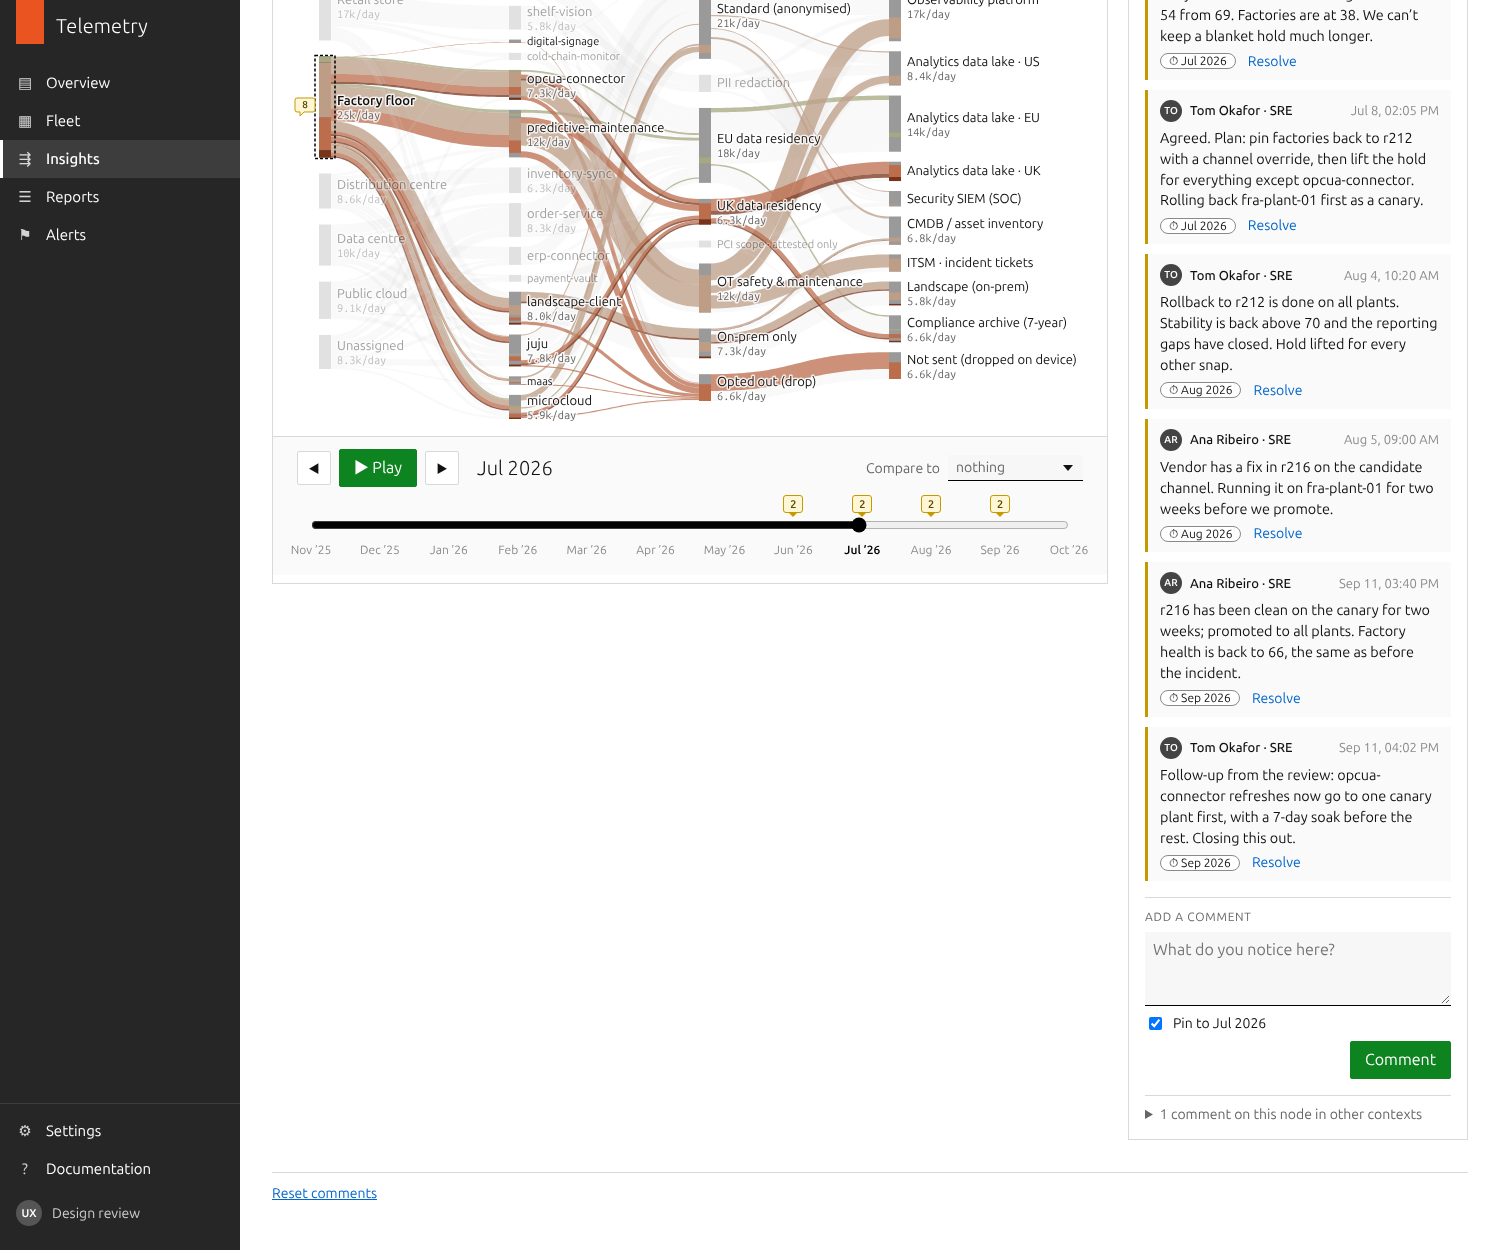
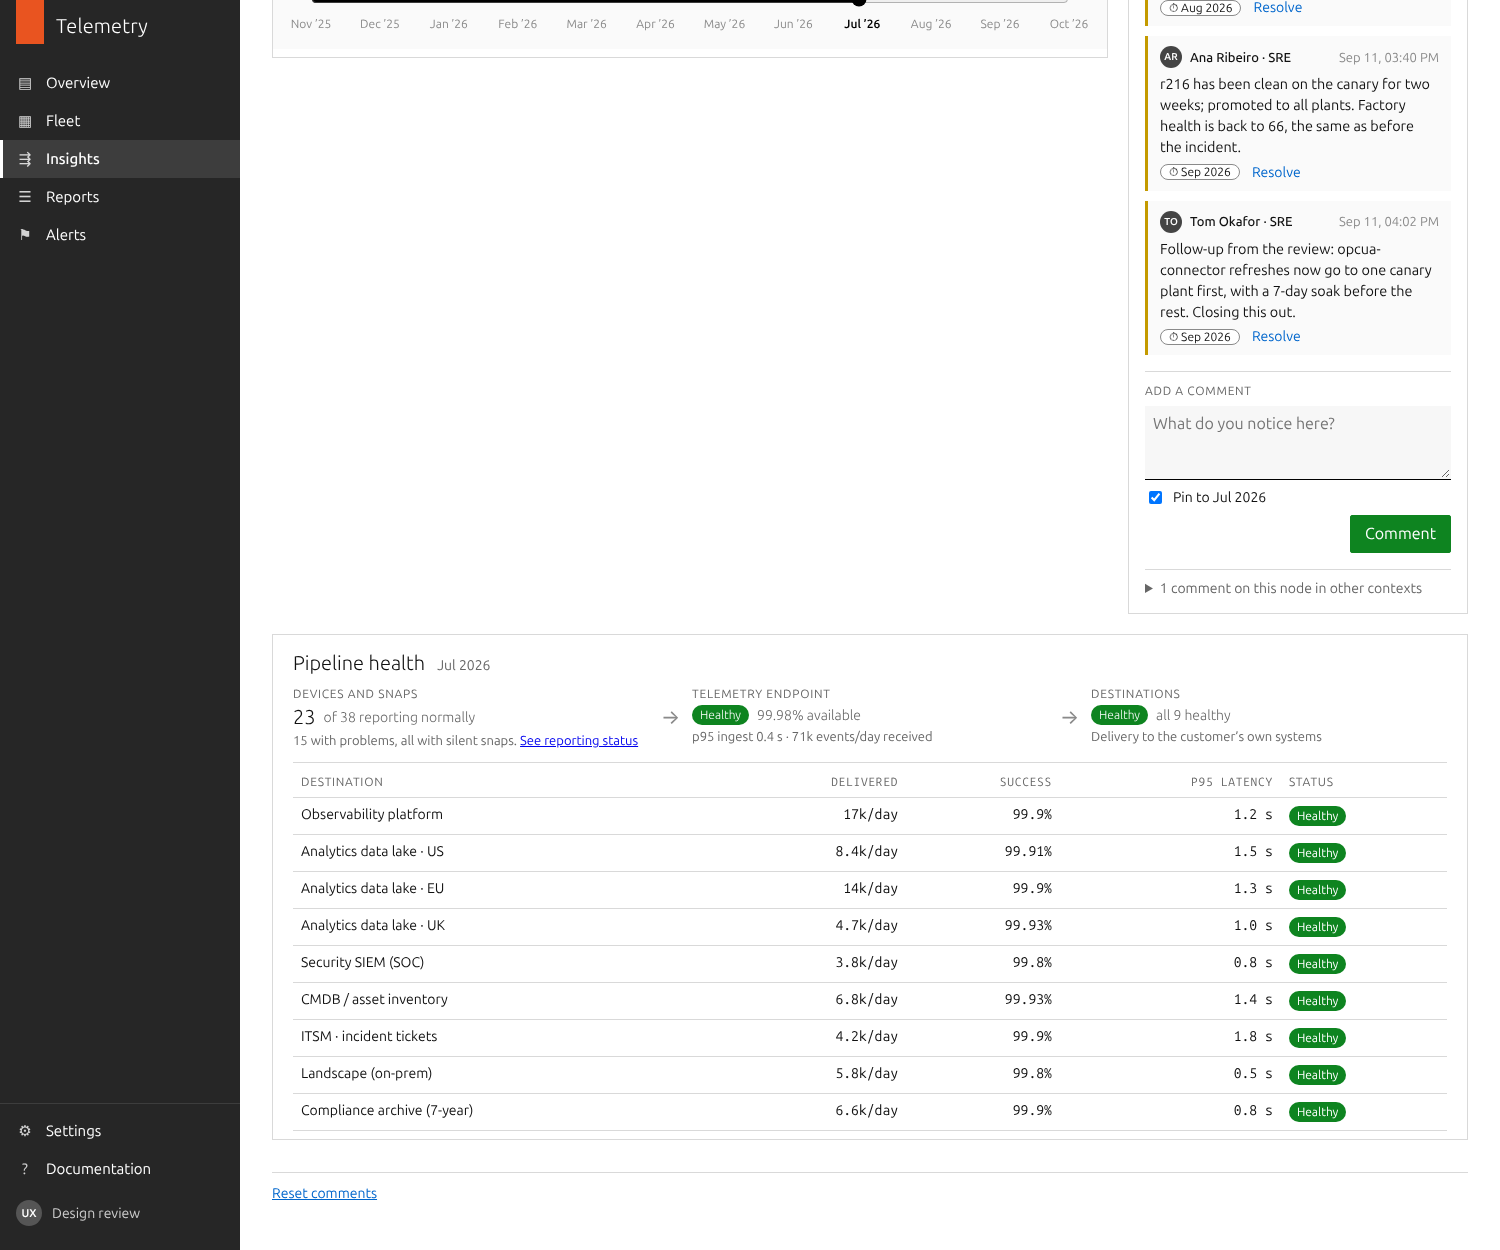
Add a pipeline health panel at the bottom of the page
Follows the pipe left to right for the timeline month: devices and snaps
reporting normally (with a link to the Reporting status view), the
telemetry endpoint (status, availability, p95 ingest, events received),
and destinations (table of delivered/day, success rate, p95 latency and
a Healthy/Degraded badge; clicking a row traces that destination). The
Security SIEM is degraded (rate-limited, retrying) in the latest month.
Figures are synthetic and seeded per month.

Claude-Session: https://claude.ai/code/session_0156BKrAD5wHGfcWHmuamSMf

diff --git a/js/app.js b/js/app.js
@@ -350,6 +350,7 @@
         '. Select a group to see its devices.</p>');
     }
     drawInsights();
+    drawPipeline();
     el.ladder.hidden = !parts.length;
     el.ladder.innerHTML = parts.join('');
   }
@@ -361,6 +362,59 @@
       return '<span class="chart-legend__col' + (i === stg.length - 1 ? ' is-last' : '') + (i === 0 ? ' is-first' : '') + '" style="left:' + (n ? n.x : 0) + 'px">' + esc(label) + '</span>';
     }).join('');
   }
+
+  // ---- Pipeline health panel (bottom of the page) ------------------------
+  // Follows the pipe left to right for the timeline month: devices and snaps → endpoint → destinations.
+  function drawPipeline() {
+    const pi = periodIndex(), ph = TL.pipelineHealth(pi), facts = TL.snapshot(pi);
+    const devs = {}, toDest = {};
+    let received = 0;
+    facts.forEach(function (f) {
+      devs[f.device] = Object.getPrototypeOf(f).reporting;
+      if (f.destination !== 'discard') { received += f.count; toDest[f.destination] = (toDest[f.destination] || 0) + f.count; }
+    });
+    const ids = Object.keys(devs), ok = ids.filter(function (id) { return devs[id] === 'reporting'; }).length;
+    const partial = ids.filter(function (id) { return devs[id] === 'partial'; }).length;
+    const badge = function (st) { return st === 'healthy' ? '<span class="p-badge p-badge--positive">Healthy</span>' : '<span class="p-badge p-badge--caution">Degraded</span>'; };
+    const rows = TL.DIMENSIONS.destination.values.filter(function (v) { return ph.destinations[v.id] && toDest[v.id]; }).map(function (v) {
+      const d = ph.destinations[v.id];
+      return '<tr class="' + (d.status !== 'healthy' ? 'is-degraded' : '') + '" data-pipe-node="destination:' + v.id + '" tabindex="0">' +
+        '<td>' + esc(v.label) + (d.note ? '<span class="p-pipeline__note">' + esc(d.note) + '</span>' : '') + '</td>' +
+        '<td class="u-num">' + fmt(toDest[v.id] * d.delivered / 100) + '/day</td>' +
+        '<td class="u-num">' + d.delivered.toFixed(d.delivered < 99.9 ? 1 : 2) + '%</td>' +
+        '<td class="u-num">' + (d.p95Ms >= 10000 ? Math.round(d.p95Ms / 1000) + ' s' : (d.p95Ms / 1000).toFixed(1) + ' s') + '</td>' +
+        '<td>' + badge(d.status) + '</td></tr>';
+    }).join('');
+    const degraded = Object.keys(ph.destinations).filter(function (k) { return ph.destinations[k].status !== 'healthy' && toDest[k]; }).length;
+    $('pipeline-health').innerHTML =
+      '<header class="p-pipeline__head"><h2 id="pipeline-title" class="p-pipeline__title">Pipeline health</h2><span class="p-pipeline__when">' + TL.monthLabel(TL.MONTHS[pi]) + '</span></header>' +
+      '<div class="p-pipeline__stages">' +
+        '<div class="p-pipeline__stage"><span class="p-field__label">Devices and snaps</span>' +
+          '<div class="p-pipeline__big">' + ok.toLocaleString('en-GB') + ' <span class="p-kpi__unit">of ' + ids.length.toLocaleString('en-GB') + ' reporting normally</span></div>' +
+          '<div class="p-pipeline__sub">' + (ids.length === ok ? 'No problems' : (ids.length - ok).toLocaleString('en-GB') + ' with problems' +
+            (partial ? (partial === ids.length - ok ? ', all with silent snaps' : ', including ' + partial.toLocaleString('en-GB') + ' with silent snaps') : '')) +
+            '. <a href="#" data-pipe-view="reporting">See reporting status</a></div></div>' +
+        '<div class="p-pipeline__arrow" aria-hidden="true">→</div>' +
+        '<div class="p-pipeline__stage"><span class="p-field__label">Telemetry endpoint</span>' +
+          '<div class="p-pipeline__big">' + badge('healthy') + ' <span class="p-kpi__unit">' + ph.endpoint.availability.toFixed(2) + '% available</span></div>' +
+          '<div class="p-pipeline__sub">p95 ingest ' + (ph.endpoint.p95IngestMs / 1000).toFixed(1) + ' s · ' + fmt(received) + ' events/day received</div></div>' +
+        '<div class="p-pipeline__arrow" aria-hidden="true">→</div>' +
+        '<div class="p-pipeline__stage"><span class="p-field__label">Destinations</span>' +
+          '<div class="p-pipeline__big">' + (degraded ? badge('degraded') + ' <span class="p-kpi__unit">' + degraded + ' of ' + Object.keys(toDest).length + ' degraded</span>' : badge('healthy') + ' <span class="p-kpi__unit">all ' + Object.keys(toDest).length + ' healthy</span>') + '</div>' +
+          '<div class="p-pipeline__sub">Delivery to the customer’s own systems</div></div>' +
+      '</div>' +
+      '<div class="p-pipeline__tablewrap"><table class="p-pipeline__table"><thead><tr><th>Destination</th><th class="u-num">Delivered</th><th class="u-num">Success</th><th class="u-num">p95 latency</th><th>Status</th></tr></thead><tbody>' + rows + '</tbody></table></div>';
+  }
+  $('pipeline-health').addEventListener('click', function (e) {
+    const v = e.target.closest('[data-pipe-view]');
+    if (v) { e.preventDefault(); hideTip(); state.view = v.dataset.pipeView; state.groupBy = v.dataset.pipeView; state.scope = null; state.excluded = {}; state.query = ''; state.selected = null; rebuildControls(); render(); document.querySelector('.insights__chart').scrollIntoView({ behavior: 'smooth', block: 'start' }); return; }
+    const row = e.target.closest('[data-pipe-node]');
+    if (row) { hideTip(); state.selected = row.dataset.pipeNode; render(); document.querySelector('.insights__chart').scrollIntoView({ behavior: 'smooth', block: 'start' }); }
+  });
+  $('pipeline-health').addEventListener('keydown', function (e) {
+    const row = e.target.closest('[data-pipe-node]');
+    if (row && (e.key === 'Enter' || e.key === ' ')) { e.preventDefault(); row.click(); }
+  });
 
   function drawKpis(agg) {
     const t = tab(), a = attr(), pi = periodIndex();

diff --git a/css/app.css b/css/app.css
@@ -378,3 +378,30 @@ button, input, select, textarea { font: inherit; color: inherit; }
 .tooltip__report { margin-top: 3px; display: grid; grid-template-columns: auto 1fr; column-gap: 0; }
 .tooltip__report strong { display: inline; font-weight: 600; }
 .tooltip__reporthint { grid-column: 2; color: #ccc; font-size: .75rem; line-height: 1.4; max-width: 260px; }
+
+/* Pipeline health panel (bottom) */
+.p-pipeline { margin-top: 20px; padding: 16px 20px 8px; }
+.p-pipeline__head { display: flex; align-items: baseline; gap: 12px; margin-bottom: 12px; }
+.p-pipeline__title { font-size: 1.25rem; font-weight: 300; margin: 0; }
+.p-pipeline__when { color: var(--muted); font-size: .875rem; }
+.p-pipeline__stages { display: grid; grid-template-columns: 1fr auto 1fr auto 1fr; gap: 12px; align-items: start; padding-bottom: 14px; border-bottom: 1px solid var(--border); }
+.p-pipeline__stage { display: flex; flex-direction: column; gap: 4px; }
+.p-pipeline__big { font-size: 1.25rem; font-weight: 300; display: flex; align-items: center; gap: 8px; flex-wrap: wrap; }
+.p-pipeline__sub { font-size: .8125rem; color: var(--muted); }
+.p-pipeline__arrow { color: var(--faint); font-size: 1.25rem; padding-top: 18px; }
+.p-pipeline__tablewrap { overflow-x: auto; }
+.p-pipeline__table { width: 100%; border-collapse: collapse; font-size: .875rem; margin-top: 4px; }
+.p-pipeline__table th { text-align: left; font-weight: 400; font-size: .75rem; text-transform: uppercase; letter-spacing: .06em; color: var(--muted); padding: 8px 8px; border-bottom: 1px solid var(--border); }
+.p-pipeline__table td { padding: 8px; border-bottom: 1px solid var(--border); vertical-align: top; }
+.p-pipeline__table tr[data-pipe-node] { cursor: pointer; }
+.p-pipeline__table tr[data-pipe-node]:hover { background: var(--bg-soft); }
+.p-pipeline__table tr.is-degraded td:first-child { font-weight: 500; }
+.p-pipeline__table .u-num { text-align: right; font-family: "Ubuntu Sans Mono", ui-monospace, monospace; white-space: nowrap; }
+.p-pipeline__note { display: block; font-weight: 400; font-size: .75rem; color: var(--muted); }
+.p-badge--positive { background: var(--positive); }
+.p-badge--caution { background: #C49A00; color: #111; }
+@media (max-width: 760px) {
+  .p-pipeline { margin: 16px -16px 0; border-left: 0; border-right: 0; }
+  .p-pipeline__stages { grid-template-columns: 1fr; }
+  .p-pipeline__arrow { display: none; }
+}

diff --git a/js/data.js b/js/data.js
@@ -670,6 +670,21 @@ window.TL = window.TL || {};
   const GROUP_BYS = [];
   GROUP_BY_MENU.forEach(function (e) { if (e.id) GROUP_BYS.push(e.id); else e.items.forEach(function (k) { GROUP_BYS.push(k); }); });
 
+  // ---- Pipeline health (endpoint and destinations), per month ----------------
+  // Synthetic, seeded per month. The Security SIEM is degraded (rate-limited,
+  // retrying) in the latest month; everything else is healthy.
+  function pipelineHealth(m) {
+    const r = mulberry32(161803 + m * 97);
+    const endpoint = { availability: 99.95 + r() * 0.04, p95IngestMs: Math.round(280 + r() * 220) };
+    const destinations = {};
+    DESTINATIONS.values.forEach(function (v) {
+      if (v.id === 'discard') return;
+      destinations[v.id] = { delivered: 99.8 + r() * 0.19, p95Ms: Math.round(400 + r() * 1400), status: 'healthy' };
+    });
+    if (m === MONTHS.length - 1) destinations.siem = { delivered: 96.4, p95Ms: 38000, status: 'degraded', note: 'Rate-limited by the SIEM; failed deliveries are being retried' };
+    return { endpoint: endpoint, destinations: destinations };
+  }
+
   // ---- Manual keys and assignment ----------------------------------------
   // Site and Environment are labels people assign (e.g. Landscape tags), so
   // some devices start without one. The model keeps each device's true site
@@ -718,7 +733,7 @@ window.TL = window.TL || {};
   }
 
   Object.assign(TL, {
-    FLEET: FLEET, MANUAL_KEYS: MANUAL_KEYS, assign: assign, suggest: suggest, addValue: addValue,
+    FLEET: FLEET, pipelineHealth: pipelineHealth, MANUAL_KEYS: MANUAL_KEYS, assign: assign, suggest: suggest, addValue: addValue,
     MONTHS: MONTHS, monthLabel: monthLabel,
     ATTRIBUTES: ATTRIBUTES, DIMENSIONS: DIMENSIONS, ROUTING: ROUTING, PALETTE: PALETTE, HEALTH_COMPONENTS: HEALTH_COMPONENTS, HEALTH_RAMP: HEALTH_RAMP,
     DEVICES: DEVICES, VIEWS: VIEWS, GROUP_BYS: GROUP_BYS, GROUP_BY_MENU: GROUP_BY_MENU, GROUP_BY_LABELS: GROUP_BY_LABELS,

diff --git a/index.html b/index.html
@@ -6,7 +6,7 @@
   <title>Insights · Telemetry</title>
   <link rel="preconnect" href="https://fonts.googleapis.com">
   <link rel="stylesheet" href="https://fonts.googleapis.com/css2?family=Ubuntu+Sans:wght@300;400;500;600&family=Ubuntu+Sans+Mono&display=swap">
-  <link rel="stylesheet" href="css/app.css?v=20261103g">
+  <link rel="stylesheet" href="css/app.css?v=20261103h">
 </head>
 <body>
 <div class="l-app">
@@ -86,6 +86,7 @@
         </div>
         <aside class="p-card comment-panel" id="comments" hidden aria-label="Comments"></aside>
       </div>
+      <section class="p-card p-pipeline" id="pipeline-health" aria-labelledby="pipeline-title"></section>
     </section>
     <footer class="p-page-footer">
       <a href="#" class="p-page-footer__link" id="reset-demo" role="button">Reset comments</a>
@@ -96,9 +97,9 @@
 <div class="tooltip" id="tooltip" role="tooltip" hidden></div>
 <dialog class="p-modal" id="assign-dialog" aria-labelledby="assign-title"></dialog>
 
-<script src="js/data.js?v=20261103g"></script>
-<script src="js/sankey.js?v=20261103g"></script>
-<script src="js/comments.js?v=20261103g"></script>
-<script src="js/app.js?v=20261103g"></script>
+<script src="js/data.js?v=20261103h"></script>
+<script src="js/sankey.js?v=20261103h"></script>
+<script src="js/comments.js?v=20261103h"></script>
+<script src="js/app.js?v=20261103h"></script>
 </body>
 </html>

diff --git a/README.md b/README.md
@@ -56,6 +56,18 @@ Reporting status is measured at the **telemetry endpoint**, per device and per s
 - **It follows the incident:** in June and July, factory devices are partially silent because `opcua-connector` was crash-looping.
 - **Other data is unchanged:** reporting status is generated from its own randomness, so health, flows and volumes are as before.
 
+## Pipeline health panel
+
+A **Pipeline health** panel at the bottom of the page follows the pipe from left to right, for the month on the timeline:
+
+| Stage | Shows |
+|---|---|
+| Devices and snaps | How many devices are reporting normally (from reporting status), with a link to the Reporting status view |
+| Telemetry endpoint | Status, availability, p95 ingest latency, and events received |
+| Destinations | Overall status, plus a table with a row per destination: delivered per day, success rate, p95 latency, and a Healthy/Degraded badge. Clicking a row traces that destination in the chart |
+
+The figures are synthetic and seeded per month (`pipelineHealth` in `js/data.js`). In the latest month the Security SIEM is **Degraded**: rate-limited, with failed deliveries being retried. Landscape's online signal can be joined with telemetry, so the reporting-status cause hints stand.
+
 ## Data insights
 
 A strip under the page title shows **"N data insights available"**, collapsed by default. The insights are calculated from the whole fleet for the month on the timeline, so the count varies by fleet and month.

diff --git a/CLAUDE.md b/CLAUDE.md
@@ -49,6 +49,11 @@ Prototype of the **Insights** page (Telemetry product): a single-page Sankey. Se
 - Do NOT claim snapd queues/buffers telemetry: that's an unconfirmed design question for the snapd/telemetry engineers.
 - Latest month scripted (par-store-02, sgp-dc-01, nyc-cloud-02, fra-store-01, sfo-cloud-02); factory devices partially silent (opcua-connector) in Jun/Jul 2026.
 
+## Pipeline health panel
+- Panel at the bottom of the page (user: "a pipeline health at the bottom is fine"): Devices and snaps (reporting normally) → Telemetry endpoint (status, availability, p95 ingest, received) → Destinations (table: delivered/day, success %, p95, Healthy/Degraded badge; row click traces the destination).
+- Security SIEM degraded (rate-limited, retrying) in the latest month only. No markers in the chart; no claims about snapd queueing.
+- Landscape online/offline can be joined with telemetry (confirmed by the user).
+
 ## Data insights
 - Strip under the header, collapsed by default with heading "N data insights available"; computed from the whole fleet for the timeline month (7 on mid, 2 on hobby).
 - Each insight: Vanilla-style badge for audience (Compliance / SRE / Platform / Sustainability), title, one-line evidence, "Show me" (sets view + group-by, clears filters, selects node so its comments open).
